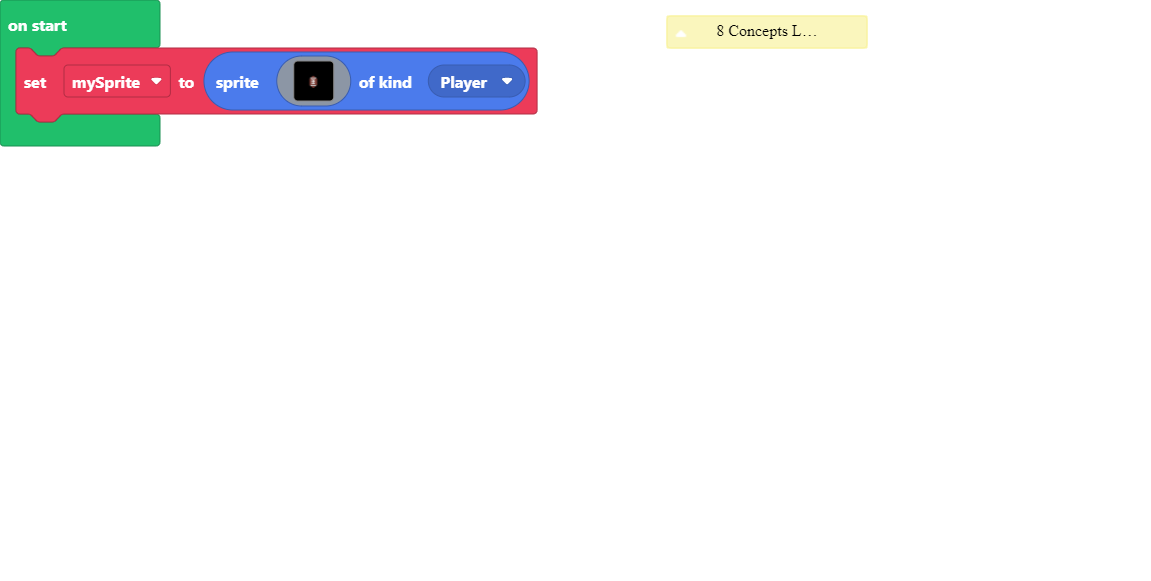
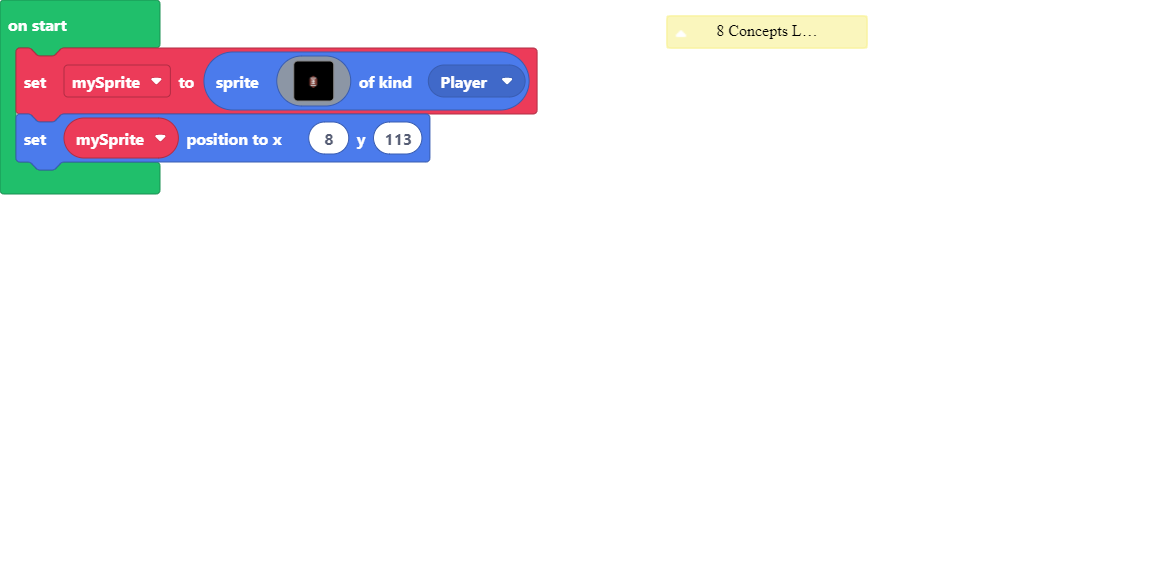
Set sprite location.

Changed region(s): [[0.0, 0.1859, 0.3953, 0.3408]]

diff --git a/main.ts b/main.ts
@@ -74,3 +74,4 @@ let mySprite = sprites.create(img`
     ...................................
     ...................................
     `, SpriteKind.Player)
+mySprite.setPosition(8, 113)
